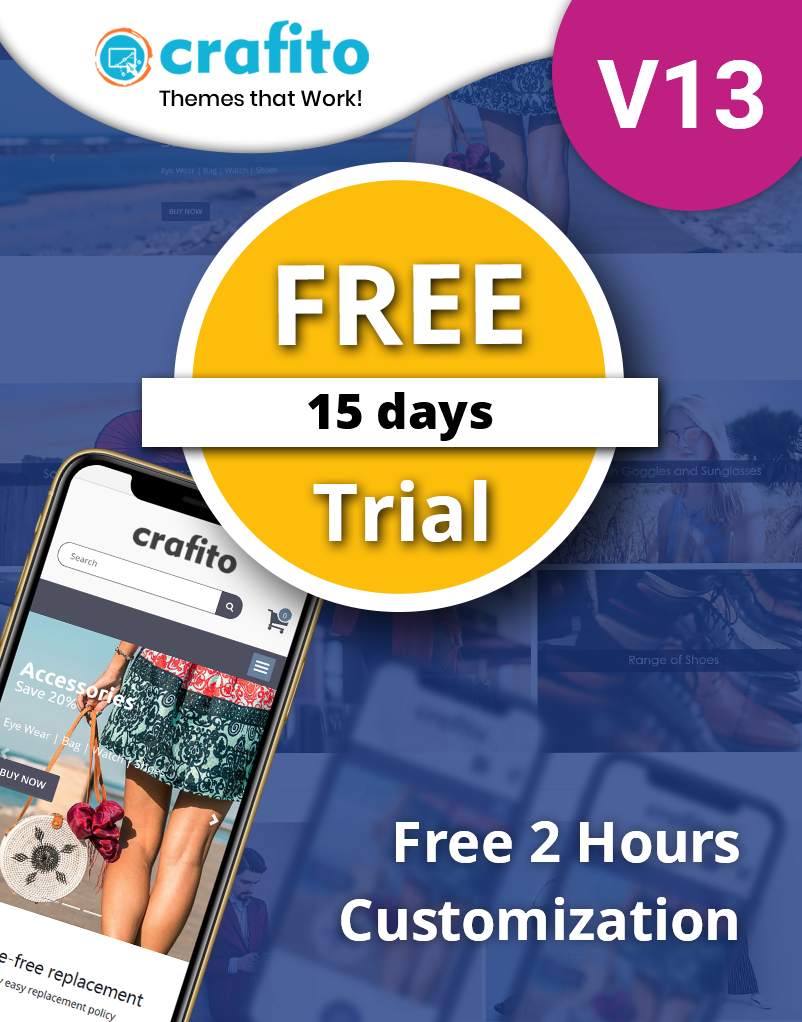
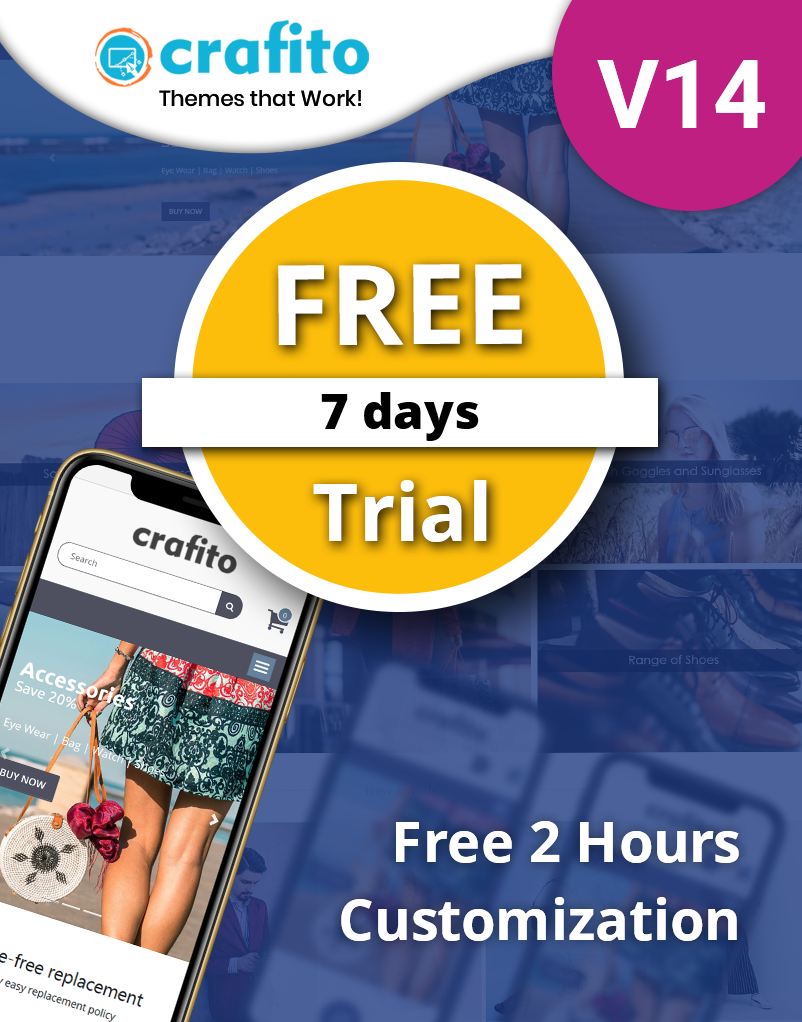
Update Cross products

Changed region(s): [[0.3741, 0.364, 0.6234, 0.455], [0.8728, 0.0607, 0.9663, 0.1517]]

diff --git a/theme_scita/static/description/index.html b/theme_scita/static/description/index.html
@@ -1634,7 +1634,7 @@
         <h3 style=" font-size: 32px; font-weight: 700; color: #21272b; margin-bottom: 40px; margin-top: 0;">Our Odoo eCommerce Themes</h3>
         <div class="row">
             <div class="col-md-3">
-                <a href="https://apps.odoo.com/apps/themes/13.0/theme_crafito" target="_blank"><img src="theme_crafito.png" class="img-responsive img-fluid" style="margin: auto;box-shadow: 0px 0px 8px 6px rgba(0,0,0,0.2);" alt="Theme Crafito"/></a>
+                <a href="https://apps.odoo.com/apps/themes/14.0/theme_crafito" target="_blank"><img src="theme_crafito.png" class="img-responsive img-fluid" style="margin: auto;box-shadow: 0px 0px 8px 6px rgba(0,0,0,0.2);" alt="Theme Crafito"/></a>
                 <h4 style="margin-top: 20px; font-size: 17px; color: #21272b; font-weight: 700; margin-bottom: 0;">Theme Crafito</h4>
             </div>
             <div class="col-md-3">
@@ -1642,7 +1642,7 @@
                 <h4 style="margin-top: 20px; font-size: 17px; color: #21272b; font-weight: 700; margin-bottom: 0;">Falcon Material<br/>Backend Theme</h4>
             </div>
             <div class="col-md-3">
-                <a href="https://apps.odoo.com/apps/themes/13.0/theme_mobicraft" target="_blank"><img src="mobicraft.png" class="img-responsive img-fluid" style="margin: auto;box-shadow: 0px 0px 8px 6px rgba(0,0,0,0.2);" alt="Theme MobiCraft"/></a>
+                <a href="https://apps.odoo.com/apps/themes/14.0/theme_mobicraft" target="_blank"><img src="mobicraft.png" class="img-responsive img-fluid" style="margin: auto;box-shadow: 0px 0px 8px 6px rgba(0,0,0,0.2);" alt="Theme MobiCraft"/></a>
                 <h4 style="margin-top: 20px; font-size: 17px; color: #21272b; font-weight: 700; margin-bottom: 0;">MobiCraft</h4>
             </div>
             <div class="col-md-3">
